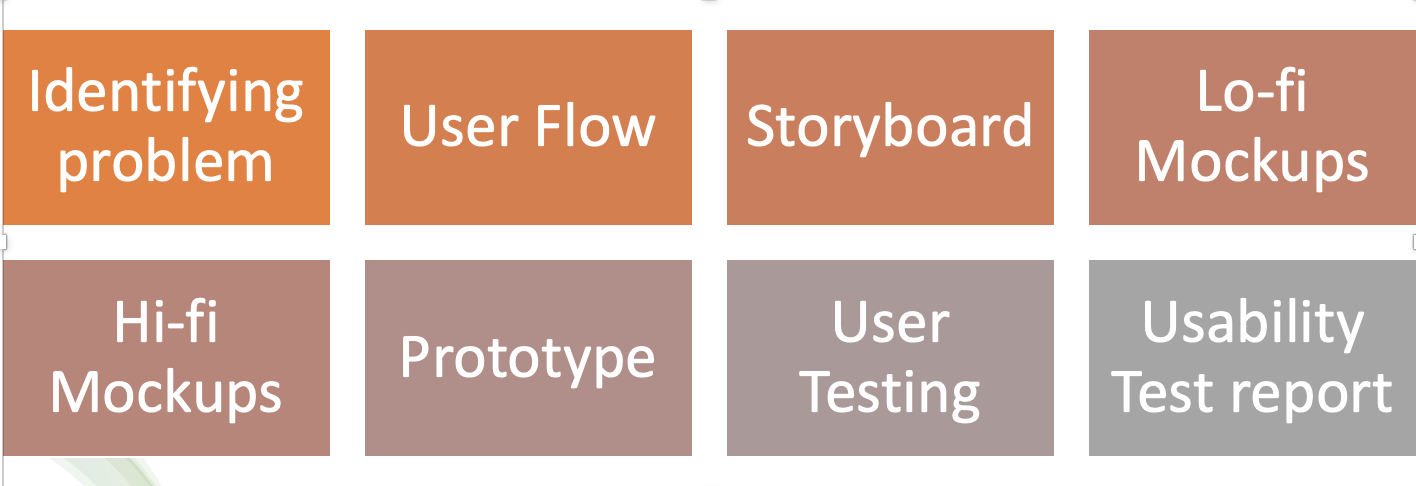
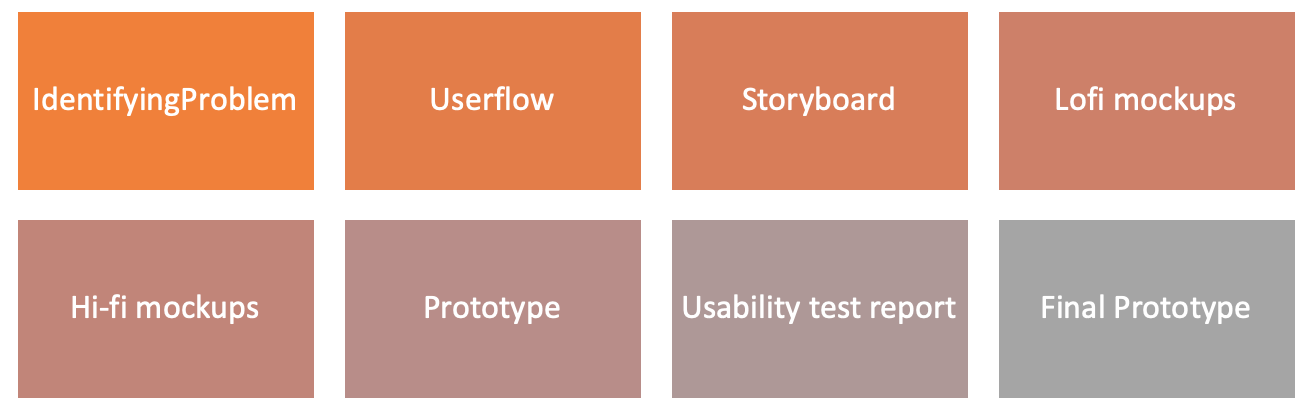
Updated the image for design process overview

Changed region(s): [[0.0, 0.5205, 1.0, 1.0], [0.0, 0.0289, 1.0, 0.4916]]

diff --git a/goPass.html b/goPass.html
@@ -1,11 +1,14 @@
 <!DOCTYPE html>
+
 <head>
    <link href="css/goPass.css" rel="stylesheet" />
    <!-- Latest compiled and minified CSS -->
-   <link rel="stylesheet" href="https://cdn.jsdelivr.net/npm/bootstrap@4.4.1/dist/css/bootstrap.min.css" integrity="sha384-Vkoo8x4CGsO3+Hhxv8T/Q5PaXtkKtu6ug5TOeNV6gBiFeWPGFN9MuhOf23Q9Ifjh" crossorigin="anonymous">
+   <link rel="stylesheet" href="https://cdn.jsdelivr.net/npm/bootstrap@4.4.1/dist/css/bootstrap.min.css"
+      integrity="sha384-Vkoo8x4CGsO3+Hhxv8T/Q5PaXtkKtu6ug5TOeNV6gBiFeWPGFN9MuhOf23Q9Ifjh" crossorigin="anonymous">
 
 
 </head>
+
 <body>
    <div class="container">
       <div class="p-5 mb-5 bg-primary text-white page-header">
@@ -14,11 +17,11 @@
       </div>
       <div class="p-5 mb-2 bg-secondary text-white">
          <h1>
-         Design Process Overview
-         <h1>
-         <img src="./img/designProcessOverview.png" alt="userflowWithExistingProblem" class="img-fluid"></img>
+            Design Process Overview
+            <h1>
+               <img src="./img/designProcessOverview.png" alt="userflowWithExistingProblem" class="img-fluid"></img>
       </div>
-      <hr/>
+      <hr />
       <div class="p-5 mb-2 bg-info text-dark">
          <h2>Problem space</h2>
          <h3>Existing Problem with payment system in public transport in India</h3>
@@ -27,44 +30,44 @@
          <li>Diversity in payment system in different public transport. </li>
          <li>No single solution for all the payments in public transport</li>
       </div>
-      <hr/>
+      <hr />
       <div class="p-5 mb-2 bg-success text-white">
          <h2>User Flow with existing problem</h2>
          <img src="./img/userflowWithExistingProblem.png" alt="userflowWithExistingProblem" class="img-fluid"></img>
       </div>
-      <hr/>
+      <hr />
       <div class="p-5 mb-2 bg-secondary text-white">
          <h2>User flow with GoPass Solution</h2>
          <img src="./img/userflowAfterSol.png" alt="userflowWithExistingProblem" class="img-fluid"></img>
       </div>
-      <hr/>
+      <hr />
       <div class="p-5 mb-2 bg-info text-dark">
          <h2>Storyboard</h2>
          <img src="./img//storyboard1.png" alt="storyboard1" class="img-fluid"></img>
       </div>
-      <hr/>
+      <hr />
       <div class="p-5 mb-2 bg-success text-white">
-      <div>
-         <h2>Lo-fi mockup</h2>
-         <img src="./img/lowFiMockup1.png" alt="storyboard1" class="img-fluid"></img>
-         <h3>Feedback recieved</h3>
-         <li>Name and the app logo not resonating with the problem I am solving.</li>
-         <li>Couple of screens missing like how to pay in the public transport, what screen comes up after buying
-            tickets/GoPass daily passes.
-         </li>
-         <li>Travel logs format is not appropriate.</li>
+         <div>
+            <h2>Lo-fi mockup</h2>
+            <img src="./img/lowFiMockup1.png" alt="storyboard1" class="img-fluid"></img>
+            <h3>Feedback recieved</h3>
+            <li>Name and the app logo not resonating with the problem I am solving.</li>
+            <li>Couple of screens missing like how to pay in the public transport, what screen comes up after buying
+               tickets/GoPass daily passes.
+            </li>
+            <li>Travel logs format is not appropriate.</li>
+         </div>
+         <hr />
+         <div>
+            <h2> Updated Lo-fi mockup</h2>
+            <img src="./img/lowFiMockup2.png" alt="storyboard1" class="img-fluid"></img>
+            <h3>Updation made</h3>
+            <li>Updated app name and logo</li>
+            <li>Added missing screens for activeTickets,GoPassCard, buying tickets, adding funds in card. </li>
+            <li>Updated travel log screen</li>
+         </div>
       </div>
-      <hr/>
-      <div>
-         <h2> Updated Lo-fi mockup</h2>
-         <img src="./img/lowFiMockup2.png" alt="storyboard1" class="img-fluid"></img>
-         <h3>Updation made</h3>
-         <li>Updated app name and logo</li>
-         <li>Added missing screens for activeTickets,GoPassCard, buying tickets, adding funds in card. </li>
-         <li>Updated travel log screen</li>
-      </div>
-      </div>
-      <hr/>
+      <hr />
       <div class="p-5 mb-2 bg-info text-dark">
          <div class="">
             <h2>Hi-fi mockup-iteration 1</h2>
@@ -78,19 +81,19 @@
          </div>
          <div class="hiFiMockup23">
             <div class="hiFiMockup2">
-               <h2>Hi-fi mockup-iteration 2</h2>
+               <h2>Prototype-v2</h2>
                <iframe width="300" height="500" src="./img/HiFi2.mp4"></iframe>
                <h3>Feedback recieved</h3>
                <li>Color combination not appealing.</li>
                <li>Tap to pay icon should be modified.</li>
                <li>Top bar is not appealing.</li>
             </div>
-            <div style="padding-top: 250px">    
+            <div style="padding-top: 250px">
                <img class="right-arrow" src="./img/next-arrow-svgrepo-com.svg" width="100" height="100"></img>
             </div>
             <div class="hiFiMockup3">
                </iframe>
-               <h2>Prototype iteration 3</h2>
+               <h2>Prototype v3</h2>
                <iframe width="300" height="500" src="./img/HiFi3.mp4">
                </iframe>
                <h3>Updation made</h3>
@@ -110,7 +113,8 @@
             <li>Inconsistent Font sise</li>
          </div>
          <div class="p-5" style="margin: 15%">
-            <button type="button" class="btn btn-success"><a class="text-white" href="./img/userTestingReport.pdf">Download User Testing Report</a></button>
+            <button type="button" class="btn btn-success"><a class="text-white"
+                  href="./img/userTestingReport.pdf">Download User Testing Report</a></button>
 
          </div>
       </div>
@@ -118,7 +122,10 @@
          <h2>Final Prototype</h2>
          <iframe width="1000" height="500" src="./img/HiFi3.mp4">
          </iframe>
+         <h3>UI Fixes</h3>
+         <li>Made font consistent</li>
+         <li>Updated the progression bar to make it consistent</li </div>
       </div>
-   </div>
 </body>
+
 </html>
